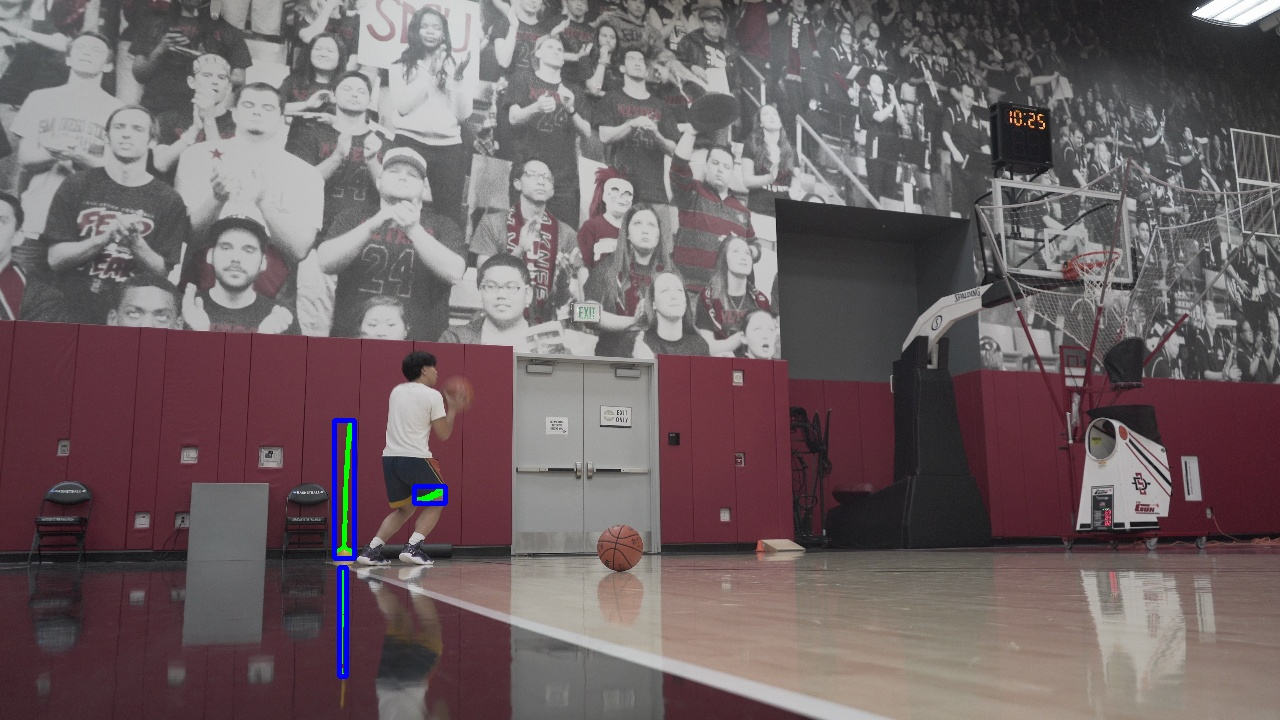
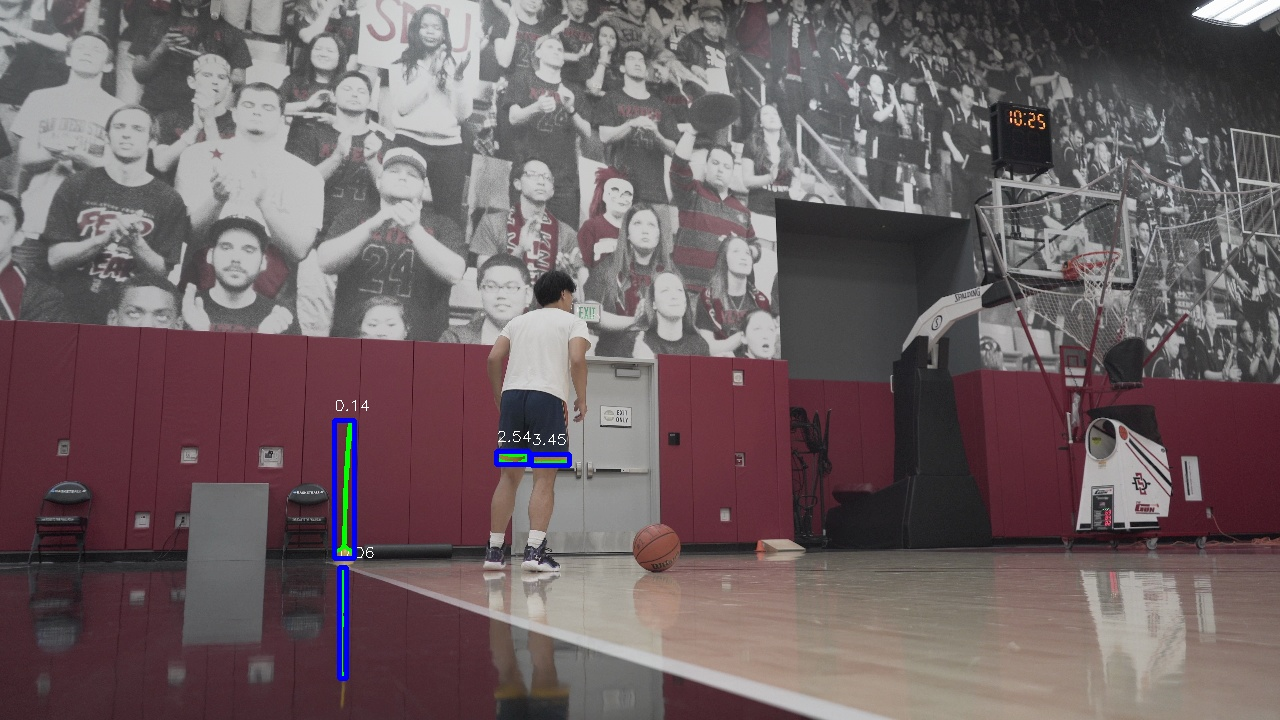
Updated learning log and fixed the debug frame so the contours and bounding rectangles are displayed on runtime, will work on the ROI to improve the ball detection

Changed region(s): [[0.25, 0.3667, 0.4688, 1.0], [0.4688, 0.7333, 0.5312, 0.8556]]

diff --git a/src/main.py b/src/main.py
@@ -34,6 +34,8 @@ def playVideoFrameFile():
 
     display_mode = "frame"
 
+    # Region of Interest to help grab the ball 
+
     # 4. Repeatedly read the next frame
     while True:
         ret, frame = cap.read()
@@ -88,11 +90,11 @@ def playVideoFrameFile():
 
             print(f"area={area:.1f}, w={w}, h={h}, aspect_ratio={aspect_ratio:.2f}")
 
-            # draw the green contours
-            cv.drawContours(frame, [contour], -1, (0, 255, 0), 2)
+            # Draw everything on the debug frame
+            cv.drawContours(debug_frame, [contour], -1, (0, 255, 0), 2)
 
             # blue bounding box
-            cv.rectangle(frame, (x, y), (x + w, y + h), (255, 0, 0), 3)
+            cv.rectangle(debug_frame, (x, y), (x + w, y + h), (255, 0, 0), 3)
             cv.putText(
                 debug_frame,
                 f"{aspect_ratio:.2f}",
@@ -103,7 +105,7 @@ def playVideoFrameFile():
                 1
             )
 
-            cv.imwrite("debug_frame.jpg", frame)
+        cv.imwrite("debug_frame.jpg", debug_frame)
 
         if display_mode == "frame":
             cv.imshow("ShotTracker", debug_frame)

diff --git a/LEARNING_LOG.md b/LEARNING_LOG.md
@@ -278,7 +278,7 @@ Concepts we will learn:
 • Contours
 • Extracting object center points
 
-# Lesson - Frame Downscaling
+# Lesson 7 - Frame Downscaling
 
 High-resolution video significantly increases computation
 
@@ -297,7 +297,7 @@ Example:
 frame = cv.resize(frame, (1280, 720))
 ```
 
-# Lesson - HSV Color Space
+# Lesson 8 - HSV Color Space
 
 HSV for detection
 HSV separates color from brightness
@@ -325,7 +325,7 @@ Produces a binary mask
 white = possible basketball pixels
 black = everything else
 
-# Lesson - False Positive in Color Detection
+# Lesson 9 - False Positive in Color Detection
 
 Color masking does not detect "a basketball."
 
@@ -356,7 +356,7 @@ We will add more filters to improve detection later
 A simple detector often gives noisy results first
 It will improve by layering constraints
 
-# Lesson — What a Mask Looks Like
+# Lesson 10 — What a Mask Looks Like
 
 A color mask is a binary image.
 
@@ -374,7 +374,7 @@ For basketball detection:
 
 This makes the image much easier to analyze because the system only needs to focus on matching regions instead of all original pixel values.
 
-# Lesson - Common Loop Bugs in OpenCV
+# Lesson 11 - Common Loop Bugs in OpenCV
 
 Two common bugs appeared while building the mask display version.
 
@@ -388,7 +388,7 @@ Then the next call to:
 ret, frame = cap.read()
 ```
 
-Lesson - Contours
+# Lesson 12 - Contours
 
 After creating a color mask, we still do not know which object is the basketball.
 
@@ -411,7 +411,7 @@ Example:
 contours, _ = cv.findContours(mask, cv.RETR_EXTERNAL, cv.CHAIN_APPROX_SIMPLE)
 ```
 
-# Lesson Filtering Contours by Size
+# Lesson 13 - Filtering Contours by Size
 
 After detecting contours from a mask, many of them may represent noise.
 
@@ -429,7 +429,7 @@ OpenCV provides:
 cv.contourArea(contour)
 ```
 
-# Lesson Threshold Tradeoffs
+# Lesson 14 - Threshold Tradeoffs
 
 Contour area filtering helps remove noise, but the threshold must be chosen carefully.
 
@@ -440,7 +440,7 @@ if area < 300:
     continue
 ```
 
-# Lesson - Area Filtering Is Not Enough
+# Lesson 15 - Area Filtering Is Not Enough
 
 Filtering contours by area removes small noise
 This doesn't gurantee that the remaining object is the basketball.
@@ -460,7 +460,7 @@ To improve detection, we need additional filters such as:
 - position
 - motion
 
-# Lesson - Bounding Rectangles
+# Lesson 16 - Bounding Rectangles
 
 When we detect a contour, draw a bounding rectangle around it
 
@@ -470,7 +470,7 @@ OpenCV function:
 x, y, w, h = cv.boundingRect(contour)
 ```
 
-# Lesson - Debug filters one at a Time
+# Lesson 17 - Debug filters one at a Time
 
 Filter may be rejecting the object before drawing happens.
 
@@ -488,7 +488,7 @@ Makes it easier to identify whether the issue comes from:
 - shape threshold
 - drawing location
 
-# Lesson - Debugging Fast Video is difficult
+# Lesson 18 - Debugging Fast Video is difficult
 
 When drawings do not appear clearly on video output, the problem may be visual inspection rather than the drawing code.
 
@@ -506,7 +506,7 @@ A strong debugging technique is to:
 - increase line thickness
 - add text labels to detected objects
 
-# Lesson - A Bad Contour == A Bad Mask
+# Lesson 19 - A Bad Contour == A Bad Mask
 
 If contour measurements mostly describe poles, strips, or small fragments, the issue is often earlier in the pipeline.
 
@@ -517,3 +517,68 @@ Bad contour output usually means:
 - the HSV range is not isolating the object well
 
 This means contour filtering cannot fully solve the problem unless the mask is improved first.
+
+# Lesson 20 — Debugging Is Easier with Display Toggles
+
+When a computer vision pipeline has multiple outputs, it can be hard to understand what is happening if all views are shown at once.
+
+A useful debugging pattern is to add display toggles.
+
+Example modes:
+
+- annotated frame
+- binary mask
+- masked color result
+
+This allows the developer to inspect one stage of the pipeline at a time.
+
+This is especially helpful when trying to answer questions like:
+
+- Is the mask correct?
+- Are contours being found?
+- Are bounding boxes actually being drawn?
+- Is the issue in detection or just in visualization?
+
+# Lesson 21 — Region of Interest (ROI)
+
+When a detector searches the entire frame, it often finds many irrelevant objects.
+
+A Region of Interest (ROI) limits processing to only the part of the image where the target is likely to appear.
+
+Example:
+
+- ignore the upper wall
+- ignore the shot clock
+- ignore distant background objects
+
+This improves detection by reducing false positives before contour filtering even begins.
+
+ROI is one of the most practical ways to improve a classical computer vision pipeline.
+
+# Lesson 22 — Static ROI vs Dynamic ROI
+
+A Region of Interest (ROI) can be either fixed or dynamic.
+
+## Static ROI
+A fixed area of the frame that never moves.
+
+Use case:
+- controlled video
+- known shooting area
+- early debugging
+
+## Dynamic ROI
+A moving search region centered around the previously detected ball position.
+
+Example idea:
+
+1. detect the ball
+2. save its center
+3. search nearby in the next frame
+4. update the center again
+
+Dynamic ROI is useful because it reduces false positives and speeds up processing.
+
+However, it depends on having a reliable initial detection.
+
+If the first detection is wrong, the tracker may follow the wrong object.
